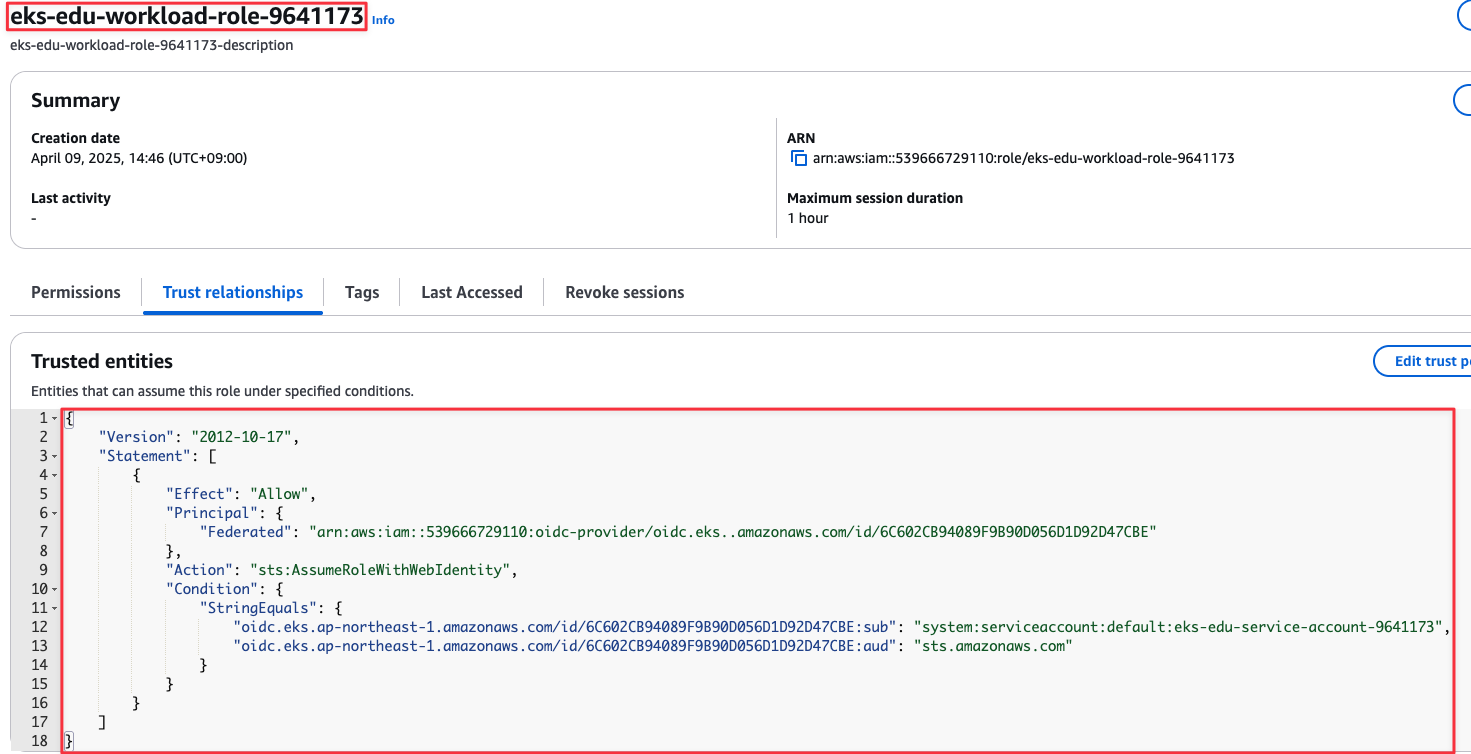
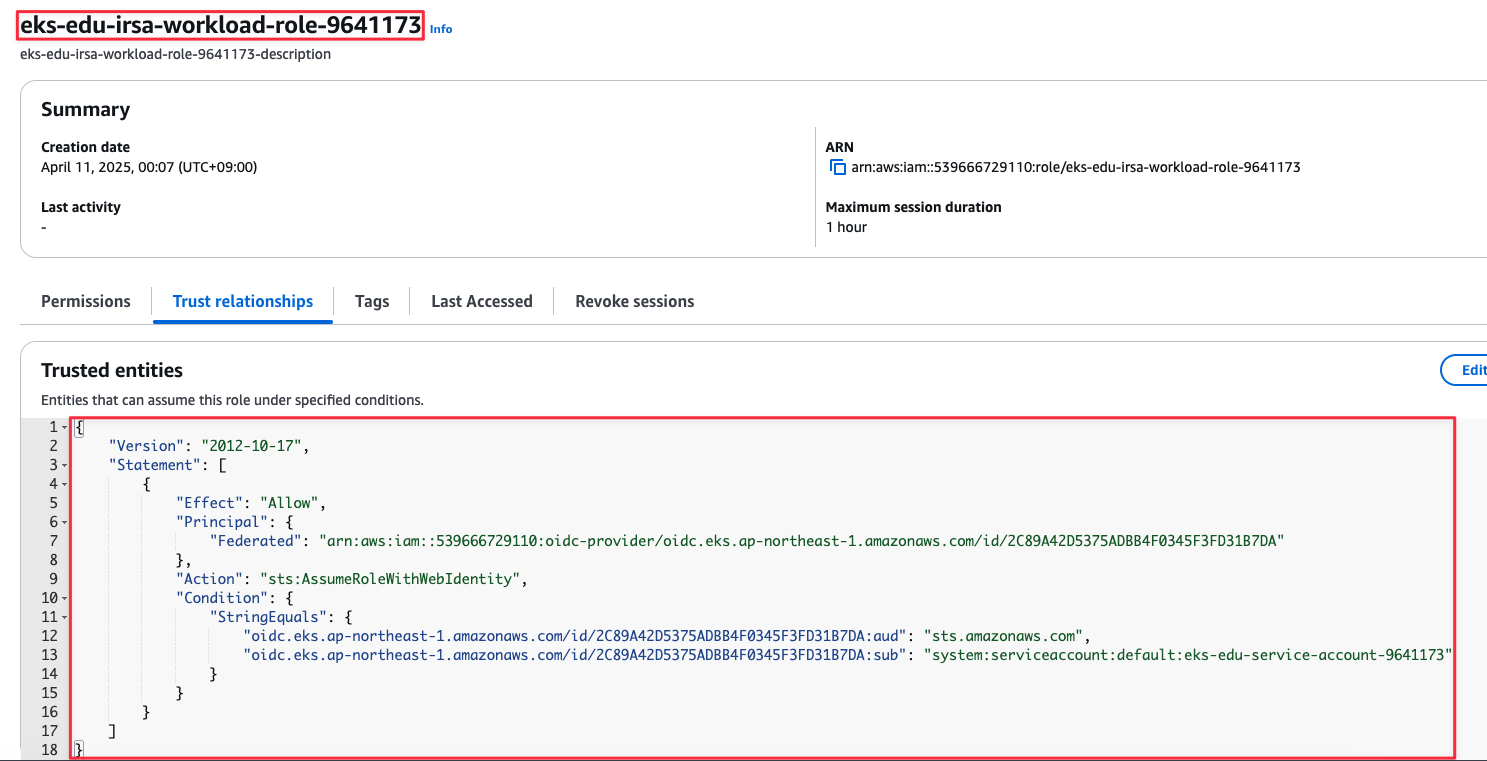
docs: 이미지 잘못 캡쳐된 부분 수정

diff --git a/06_Workload_Access_2/README.md b/06_Workload_Access_2/README.md
@@ -176,14 +176,14 @@
    
     # Role 생성
     aws iam create-role \
-       --role-name eks-edu-workload-role-9641173 \
+       --role-name eks-edu-irsa-workload-role-9641173 \
         --assume-role-policy-document file://tmp/trust-relationship.json \
-        --description eks-edu-workload-role-9641173-description
+        --description eks-edu-irsa-workload-role-9641173-description
 
     # 생성했던 Policy를 연동
     aws iam attach-role-policy \
-       --role-name eks-edu-workload-role-9641173 \
-       --policy-arn=arn:aws:iam::539666729110:policy/eks-edu-workload-policy-9641173    
+       --role-name eks-edu-irsa-workload-role-9641173 \
+       --policy-arn=arn:aws:iam::539666729110:policy/eks-edu-irsa-workload-policy-9641173
     ```
 
 14. 실행 화면
